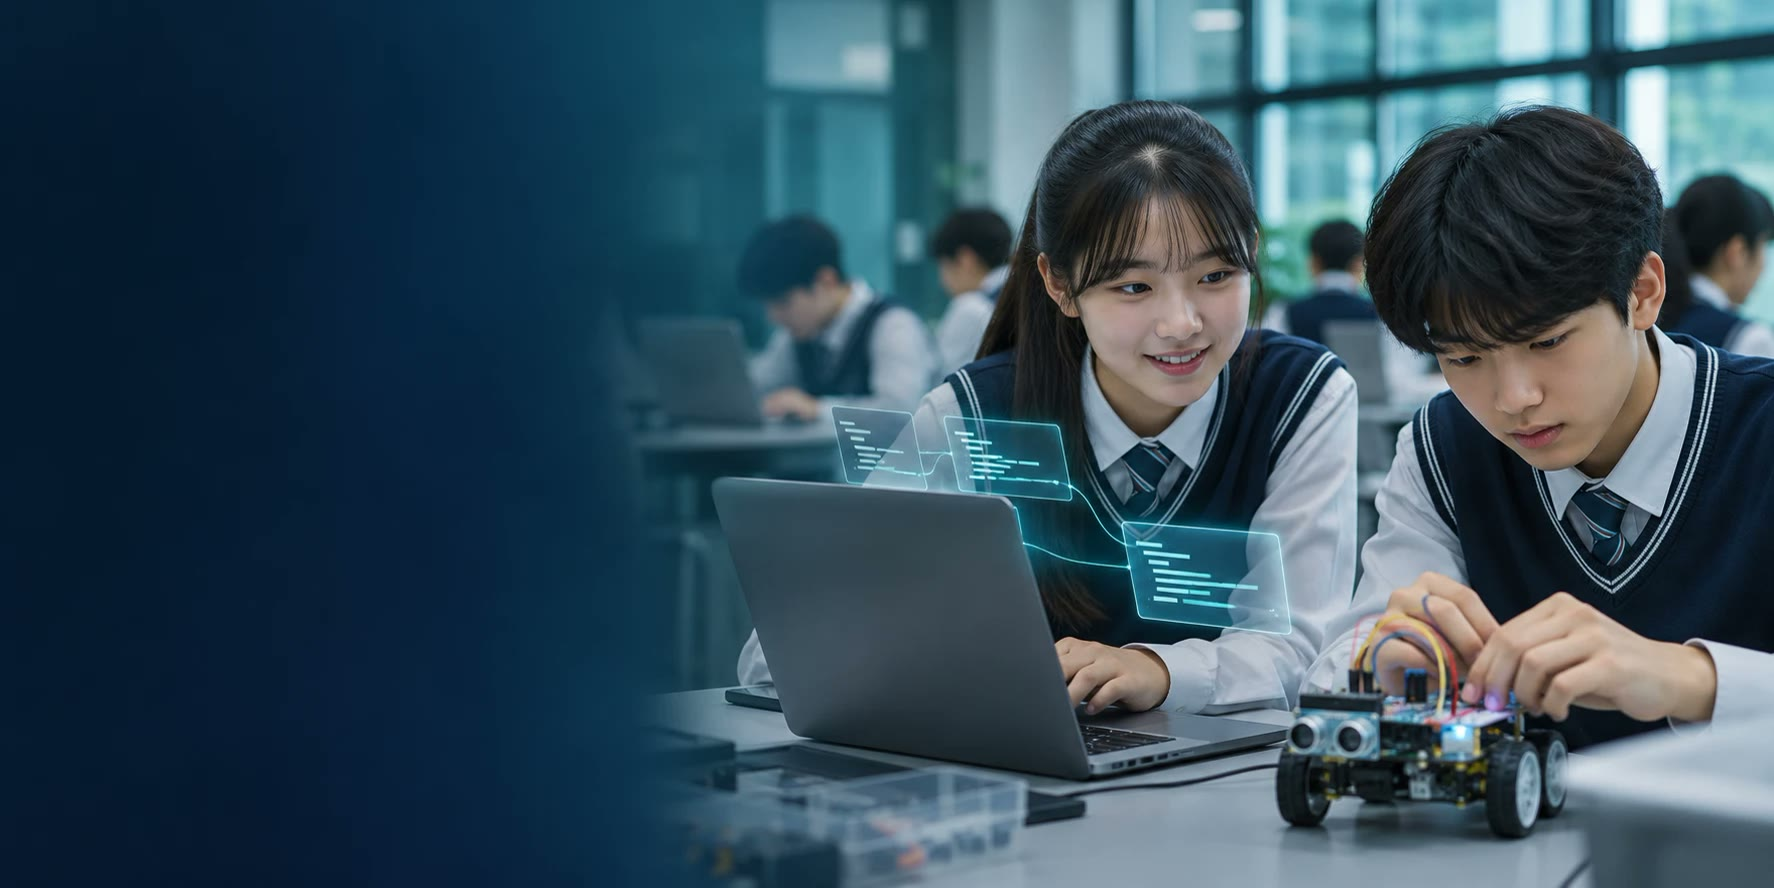
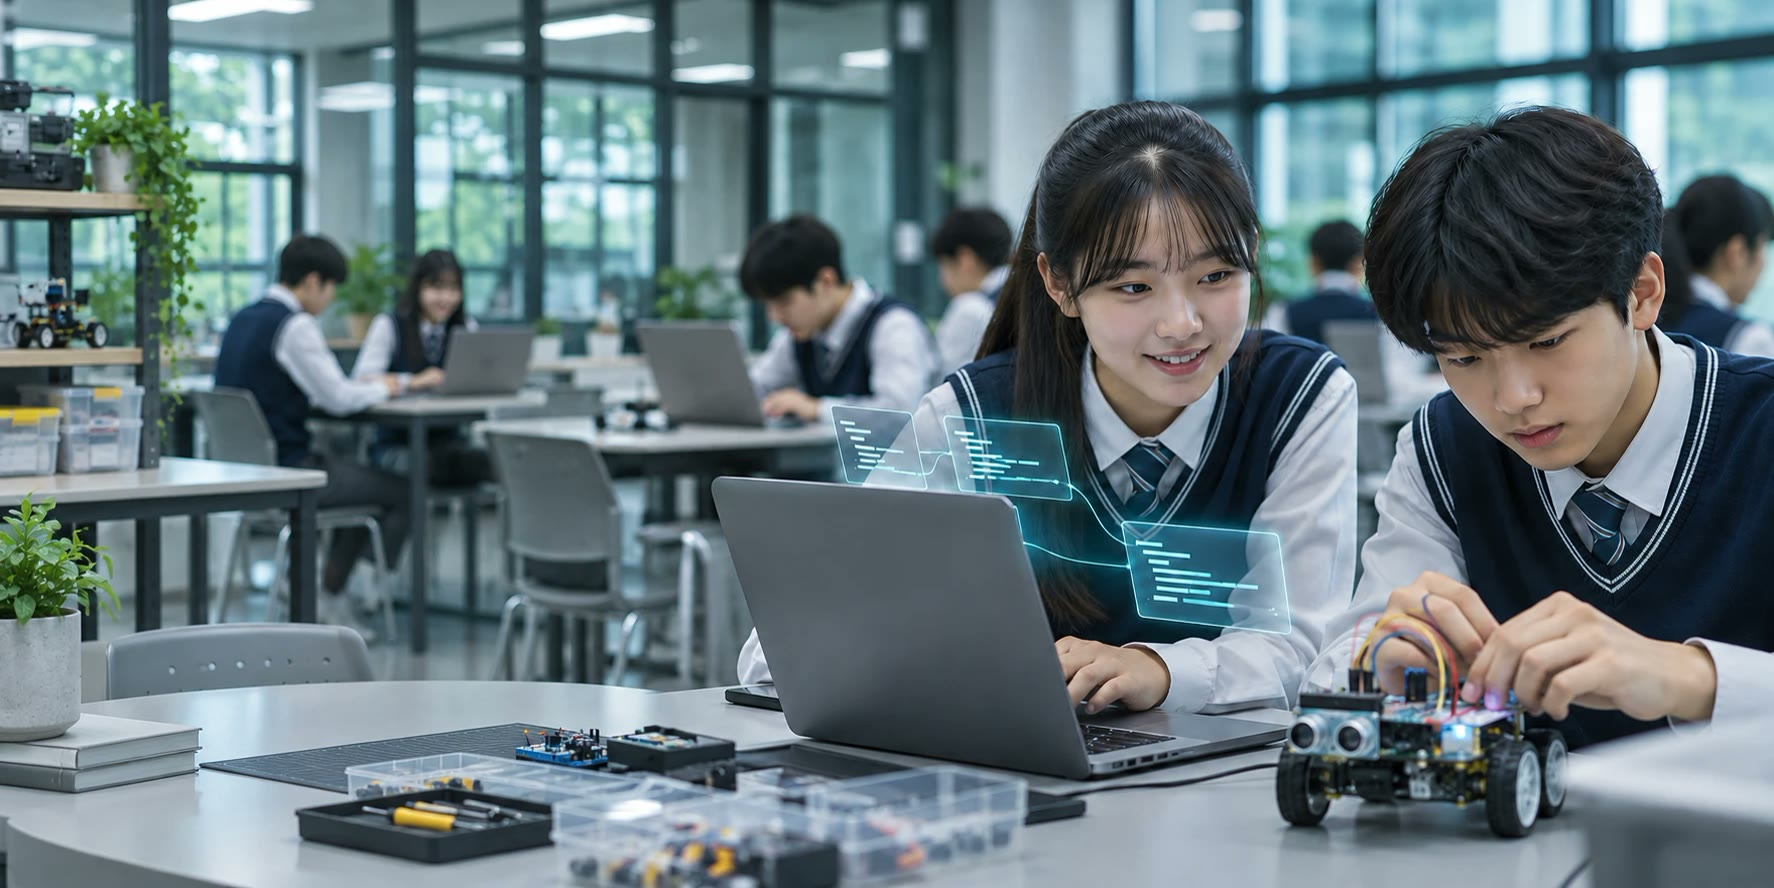
AI·SW 사진 원본으로, 진로박람회 사진 나침반으로 교체

diff --git a/index.html b/index.html
@@ -13,8 +13,8 @@
 <link rel="stylesheet" href="https://cdn.jsdelivr.net/gh/orioncactus/pretendard@v1.3.9/dist/web/variable/pretendardvariable.css">
 <link rel="preconnect" href="https://fonts.googleapis.com">
 <link rel="stylesheet" href="https://fonts.googleapis.com/css2?family=DM+Sans:opsz,wght@9..40,400..800&display=swap">
-<link rel="stylesheet" href="style.css?v=202611191412">
-<link rel="stylesheet" href="feel.css?v=202611191412">
+<link rel="stylesheet" href="style.css?v=202611191416">
+<link rel="stylesheet" href="feel.css?v=202611191416">
 </head>
 <body>
 
@@ -165,9 +165,9 @@
     <div class="sub-head rv"><p class="eyebrow">BUSINESS AREA</p><a class="more" href="business01.html">사업분야 전체 보기<span class="circ"><i class="chev"></i></span></a></div>
     <div class="slider">
       <div class="track">
-        <a class="pcard" href="program01.html"><div class="ph"><img src="assets/biz_aisw.jpg" alt="" style="object-position:82% 50%"></div><span>AI·SW교육</span><b class="circ"><i class="chev"></i></b></a>
+        <a class="pcard" href="program01.html"><div class="ph"><img src="assets/biz_aisw.jpg" alt="" style="object-position:76% 50%"></div><span>AI·SW교육</span><b class="circ"><i class="chev"></i></b></a>
         <a class="pcard" href="program03.html"><div class="ph"><img src="assets/biz_creative.jpg" alt="" style="object-position:50% 50%"></div><span>창의융합 진로·진학 교육</span><b class="circ"><i class="chev"></i></b></a>
-        <a class="pcard" href="program04.html"><div class="ph"><img src="assets/biz_festa.jpg" alt="" style="object-position:44% 45%"></div><span>Edu Camp&amp;Festa/진로박람회</span><b class="circ"><i class="chev"></i></b></a>
+        <a class="pcard" href="program04.html"><div class="ph"><img src="assets/biz_compass_v.jpg" alt="" style="object-position:50% 62%"></div><span>Edu Camp&amp;Festa/진로박람회</span><b class="circ"><i class="chev"></i></b></a>
         <a class="pcard" href="program02.html"><div class="ph"><img src="assets/biz_public.jpg" alt="" style="object-position:62% 50%"></div><span>교육분야 공공서비스</span><b class="circ"><i class="chev"></i></b></a>
       </div>
     </div>
@@ -266,7 +266,7 @@
     <a class="dlg-cta" href="https://m.site.naver.com/2dWd8" target="_blank" rel="noopener">AI 교육 플랫폼 · 지금 수강 신청<span class="circ"><i class="ext"></i></span></a>
   </div>
 </dialog>
-<script src="main.js?v=202611191412"></script>
-<script src="hero.js?v=202611191412"></script>
+<script src="main.js?v=202611191416"></script>
+<script src="hero.js?v=202611191416"></script>
 </body>
 </html>

diff --git a/program04.html b/program04.html
@@ -8,9 +8,9 @@
 <link rel="stylesheet" href="https://cdn.jsdelivr.net/gh/orioncactus/pretendard@v1.3.9/dist/web/variable/pretendardvariable.css">
 <link rel="preconnect" href="https://fonts.googleapis.com">
 <link rel="stylesheet" href="https://fonts.googleapis.com/css2?family=DM+Sans:opsz,wght@9..40,400..800&display=swap">
-<link rel="stylesheet" href="style.css?v=202611191412">
-<link rel="stylesheet" href="feel.css?v=202611191412">
-<link rel="stylesheet" href="sub.css?v=202611191412">
+<link rel="stylesheet" href="style.css?v=202611191416">
+<link rel="stylesheet" href="feel.css?v=202611191416">
+<link rel="stylesheet" href="sub.css?v=202611191416">
 </head>
 <body>
 
@@ -90,7 +90,7 @@
         <p class="p-sub">진로박람회</p>
         <p class="p-desc">청소년의 진로 탐색과 미래 역량 강화를 위해 학교·지자체와 함께 진로박람회 및 다양한 행사·전시를 운영하고 있습니다.</p>
       </div>
-      <div class="p-ph rv"><img src="assets/biz_festa.jpg" alt=""></div>
+      <div class="p-ph rv"><img src="assets/biz_compass_h.jpg" alt=""></div>
     </div>
     <ul class="p-items p-camp"><li class="p-item rv"><span class="p-ic"><svg viewBox="0 0 24 24"><rect x="5" y="8" width="14" height="11" rx="3"/><path d="M12 4v4M9 13h.01M15 13h.01M9 16h6M3 12v3M21 12v3"/></svg></span><div><h3>Edu Camp</h3><p>AI 원리를 이해하고 디지털 역량 강화를 위한 현장체험학습 집중 프로그램</p><p class="tags"><span>#AI·SW체험</span> <span>#인문사회체험</span> <span>#문화예술체험</span></p></div></li><li class="p-item rv"><span class="p-ic"><svg viewBox="0 0 24 24"><path d="M3 9a2 2 0 0 1 2-2h14a2 2 0 0 1 2 2v6a2 2 0 0 1-2 2h-4l-3-3-3 3H5a2 2 0 0 1-2-2z"/><circle cx="8" cy="12" r="1.5"/><circle cx="16" cy="12" r="1.5"/></svg></span><div><h3>Edu Festa</h3><p>로봇 기술을 직접 체험하며 학습·경험·경연이 결합된 참여형 기술 축제</p><p class="tags"><span>#학생부종합전형</span> <span>#고교학점제</span></p></div></li><li class="p-item rv"><span class="p-ic"><svg viewBox="0 0 24 24"><circle cx="12" cy="12" r="9"/><path d="M15.5 8.5l-2 5-5 2 2-5z"/></svg></span><div><h3>진로 디자인 캠프</h3><p>다양한 직업 세계와 미래 산업을 체험할 수 있는 실·내외 부스 체험 행사</p><p class="tags"><span>#진로적성코칭</span> <span>#자기주도학습</span> <span>#미디어리터러시</span></p></div></li></ul>
   </section>
@@ -125,6 +125,6 @@
 
 
 
-<script src="main.js?v=202611191412"></script>
+<script src="main.js?v=202611191416"></script>
 </body>
 </html>

diff --git a/contact01.html b/contact01.html
@@ -8,9 +8,9 @@
 <link rel="stylesheet" href="https://cdn.jsdelivr.net/gh/orioncactus/pretendard@v1.3.9/dist/web/variable/pretendardvariable.css">
 <link rel="preconnect" href="https://fonts.googleapis.com">
 <link rel="stylesheet" href="https://fonts.googleapis.com/css2?family=DM+Sans:opsz,wght@9..40,400..800&display=swap">
-<link rel="stylesheet" href="style.css?v=202611191412">
-<link rel="stylesheet" href="feel.css?v=202611191412">
-<link rel="stylesheet" href="sub.css?v=202611191412">
+<link rel="stylesheet" href="style.css?v=202611191416">
+<link rel="stylesheet" href="feel.css?v=202611191416">
+<link rel="stylesheet" href="sub.css?v=202611191416">
 </head>
 <body>
 
@@ -144,7 +144,7 @@
 
 
 
-<script src="main.js?v=202611191412"></script>
+<script src="main.js?v=202611191416"></script>
 <script>document.getElementById("cform").addEventListener("submit",e=>{e.preventDefault();const n=document.getElementById("cnote");n.hidden=false;n.scrollIntoView({block:"nearest",behavior:"smooth"});});</script>
 </body>
 </html>

diff --git a/business01.html b/business01.html
@@ -8,9 +8,9 @@
 <link rel="stylesheet" href="https://cdn.jsdelivr.net/gh/orioncactus/pretendard@v1.3.9/dist/web/variable/pretendardvariable.css">
 <link rel="preconnect" href="https://fonts.googleapis.com">
 <link rel="stylesheet" href="https://fonts.googleapis.com/css2?family=DM+Sans:opsz,wght@9..40,400..800&display=swap">
-<link rel="stylesheet" href="style.css?v=202611191412">
-<link rel="stylesheet" href="feel.css?v=202611191412">
-<link rel="stylesheet" href="sub.css?v=202611191412">
+<link rel="stylesheet" href="style.css?v=202611191416">
+<link rel="stylesheet" href="feel.css?v=202611191416">
+<link rel="stylesheet" href="sub.css?v=202611191416">
 </head>
 <body>
 
@@ -120,6 +120,6 @@
 
 
 
-<script src="main.js?v=202611191412"></script>
+<script src="main.js?v=202611191416"></script>
 </body>
 </html>

diff --git a/community01.html b/community01.html
@@ -8,9 +8,9 @@
 <link rel="stylesheet" href="https://cdn.jsdelivr.net/gh/orioncactus/pretendard@v1.3.9/dist/web/variable/pretendardvariable.css">
 <link rel="preconnect" href="https://fonts.googleapis.com">
 <link rel="stylesheet" href="https://fonts.googleapis.com/css2?family=DM+Sans:opsz,wght@9..40,400..800&display=swap">
-<link rel="stylesheet" href="style.css?v=202611191412">
-<link rel="stylesheet" href="feel.css?v=202611191412">
-<link rel="stylesheet" href="sub.css?v=202611191412">
+<link rel="stylesheet" href="style.css?v=202611191416">
+<link rel="stylesheet" href="feel.css?v=202611191416">
+<link rel="stylesheet" href="sub.css?v=202611191416">
 </head>
 <body>
 
@@ -124,6 +124,6 @@
 
 
 
-<script src="main.js?v=202611191412"></script>
+<script src="main.js?v=202611191416"></script>
 </body>
 </html>

diff --git a/community02.html b/community02.html
@@ -8,9 +8,9 @@
 <link rel="stylesheet" href="https://cdn.jsdelivr.net/gh/orioncactus/pretendard@v1.3.9/dist/web/variable/pretendardvariable.css">
 <link rel="preconnect" href="https://fonts.googleapis.com">
 <link rel="stylesheet" href="https://fonts.googleapis.com/css2?family=DM+Sans:opsz,wght@9..40,400..800&display=swap">
-<link rel="stylesheet" href="style.css?v=202611191412">
-<link rel="stylesheet" href="feel.css?v=202611191412">
-<link rel="stylesheet" href="sub.css?v=202611191412">
+<link rel="stylesheet" href="style.css?v=202611191416">
+<link rel="stylesheet" href="feel.css?v=202611191416">
+<link rel="stylesheet" href="sub.css?v=202611191416">
 </head>
 <body>
 
@@ -115,6 +115,6 @@
 
 
 
-<script src="main.js?v=202611191412"></script>
+<script src="main.js?v=202611191416"></script>
 </body>
 </html>

diff --git a/company01.html b/company01.html
@@ -8,9 +8,9 @@
 <link rel="stylesheet" href="https://cdn.jsdelivr.net/gh/orioncactus/pretendard@v1.3.9/dist/web/variable/pretendardvariable.css">
 <link rel="preconnect" href="https://fonts.googleapis.com">
 <link rel="stylesheet" href="https://fonts.googleapis.com/css2?family=DM+Sans:opsz,wght@9..40,400..800&display=swap">
-<link rel="stylesheet" href="style.css?v=202611191412">
-<link rel="stylesheet" href="feel.css?v=202611191412">
-<link rel="stylesheet" href="sub.css?v=202611191412">
+<link rel="stylesheet" href="style.css?v=202611191416">
+<link rel="stylesheet" href="feel.css?v=202611191416">
+<link rel="stylesheet" href="sub.css?v=202611191416">
 </head>
 <body>
 
@@ -155,6 +155,6 @@
 
 
 
-<script src="main.js?v=202611191412"></script>
+<script src="main.js?v=202611191416"></script>
 </body>
 </html>

diff --git a/company03.html b/company03.html
@@ -8,9 +8,9 @@
 <link rel="stylesheet" href="https://cdn.jsdelivr.net/gh/orioncactus/pretendard@v1.3.9/dist/web/variable/pretendardvariable.css">
 <link rel="preconnect" href="https://fonts.googleapis.com">
 <link rel="stylesheet" href="https://fonts.googleapis.com/css2?family=DM+Sans:opsz,wght@9..40,400..800&display=swap">
-<link rel="stylesheet" href="style.css?v=202611191412">
-<link rel="stylesheet" href="feel.css?v=202611191412">
-<link rel="stylesheet" href="sub.css?v=202611191412">
+<link rel="stylesheet" href="style.css?v=202611191416">
+<link rel="stylesheet" href="feel.css?v=202611191416">
+<link rel="stylesheet" href="sub.css?v=202611191416">
 </head>
 <body>
 
@@ -122,6 +122,6 @@
 
 
 
-<script src="main.js?v=202611191412"></script>
+<script src="main.js?v=202611191416"></script>
 </body>
 </html>

diff --git a/company04.html b/company04.html
@@ -8,9 +8,9 @@
 <link rel="stylesheet" href="https://cdn.jsdelivr.net/gh/orioncactus/pretendard@v1.3.9/dist/web/variable/pretendardvariable.css">
 <link rel="preconnect" href="https://fonts.googleapis.com">
 <link rel="stylesheet" href="https://fonts.googleapis.com/css2?family=DM+Sans:opsz,wght@9..40,400..800&display=swap">
-<link rel="stylesheet" href="style.css?v=202611191412">
-<link rel="stylesheet" href="feel.css?v=202611191412">
-<link rel="stylesheet" href="sub.css?v=202611191412">
+<link rel="stylesheet" href="style.css?v=202611191416">
+<link rel="stylesheet" href="feel.css?v=202611191416">
+<link rel="stylesheet" href="sub.css?v=202611191416">
 </head>
 <body>
 
@@ -126,6 +126,6 @@
 
 
 
-<script src="main.js?v=202611191412"></script>
+<script src="main.js?v=202611191416"></script>
 </body>
 </html>

diff --git a/program01.html b/program01.html
@@ -8,9 +8,9 @@
 <link rel="stylesheet" href="https://cdn.jsdelivr.net/gh/orioncactus/pretendard@v1.3.9/dist/web/variable/pretendardvariable.css">
 <link rel="preconnect" href="https://fonts.googleapis.com">
 <link rel="stylesheet" href="https://fonts.googleapis.com/css2?family=DM+Sans:opsz,wght@9..40,400..800&display=swap">
-<link rel="stylesheet" href="style.css?v=202611191412">
-<link rel="stylesheet" href="feel.css?v=202611191412">
-<link rel="stylesheet" href="sub.css?v=202611191412">
+<link rel="stylesheet" href="style.css?v=202611191416">
+<link rel="stylesheet" href="feel.css?v=202611191416">
+<link rel="stylesheet" href="sub.css?v=202611191416">
 </head>
 <body>
 
@@ -125,6 +125,6 @@
 
 
 
-<script src="main.js?v=202611191412"></script>
+<script src="main.js?v=202611191416"></script>
 </body>
 </html>

diff --git a/program02.html b/program02.html
@@ -8,9 +8,9 @@
 <link rel="stylesheet" href="https://cdn.jsdelivr.net/gh/orioncactus/pretendard@v1.3.9/dist/web/variable/pretendardvariable.css">
 <link rel="preconnect" href="https://fonts.googleapis.com">
 <link rel="stylesheet" href="https://fonts.googleapis.com/css2?family=DM+Sans:opsz,wght@9..40,400..800&display=swap">
-<link rel="stylesheet" href="style.css?v=202611191412">
-<link rel="stylesheet" href="feel.css?v=202611191412">
-<link rel="stylesheet" href="sub.css?v=202611191412">
+<link rel="stylesheet" href="style.css?v=202611191416">
+<link rel="stylesheet" href="feel.css?v=202611191416">
+<link rel="stylesheet" href="sub.css?v=202611191416">
 </head>
 <body>
 
@@ -125,6 +125,6 @@
 
 
 
-<script src="main.js?v=202611191412"></script>
+<script src="main.js?v=202611191416"></script>
 </body>
 </html>

diff --git a/program03.html b/program03.html
@@ -8,9 +8,9 @@
 <link rel="stylesheet" href="https://cdn.jsdelivr.net/gh/orioncactus/pretendard@v1.3.9/dist/web/variable/pretendardvariable.css">
 <link rel="preconnect" href="https://fonts.googleapis.com">
 <link rel="stylesheet" href="https://fonts.googleapis.com/css2?family=DM+Sans:opsz,wght@9..40,400..800&display=swap">
-<link rel="stylesheet" href="style.css?v=202611191412">
-<link rel="stylesheet" href="feel.css?v=202611191412">
-<link rel="stylesheet" href="sub.css?v=202611191412">
+<link rel="stylesheet" href="style.css?v=202611191416">
+<link rel="stylesheet" href="feel.css?v=202611191416">
+<link rel="stylesheet" href="sub.css?v=202611191416">
 </head>
 <body>
 
@@ -125,6 +125,6 @@
 
 
 
-<script src="main.js?v=202611191412"></script>
+<script src="main.js?v=202611191416"></script>
 </body>
 </html>
